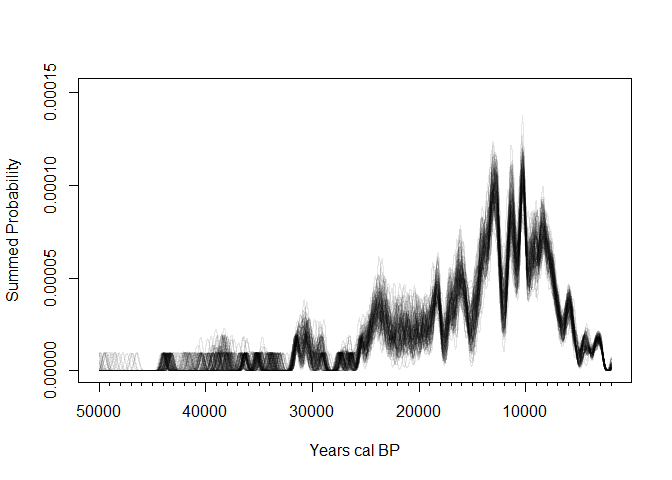
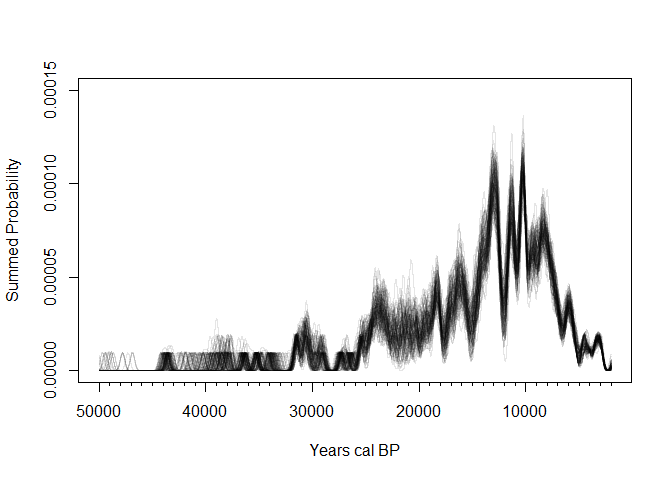
Seeing if the changes to the figures will be reflected on the github page

diff --git a/README.md b/README.md
@@ -340,7 +340,13 @@ ggplot(spd_unbinned$grid) +
   theme_minimal() 
 ```
 
-![](README_files/figure-commonmark/unnamed-chunk-2-1.png)
+<div id="fig-unbinned-climate">
+
+![](README_files/figure-commonmark/fig-unbinned-climate-1.png)
+
+Figure 2: Unbinned SPD plot with climate events overlayed
+
+</div>
 
 In <a href="#fig-unbinned" class="quarto-xref">Figure 1</a> there is a
 continuous occupation of Southeast Asia from 25000 BP to present
@@ -369,11 +375,11 @@ plot(spd_res)
 
 ![](README_files/figure-commonmark/fig-100-bin-1.png)
 
-Figure 2: SPD plot with a bin of 100 years
+Figure 3: SPD plot with a bin of 100 years
 
 </div>
 
-In <a href="#fig-100-bin" class="quarto-xref">Figure 2</a> the peaks are
+In <a href="#fig-100-bin" class="quarto-xref">Figure 3</a> the peaks are
 consistent but grow more intense the only exceptions being the hills
 just before 15 ka and just after 10 ka are a little depressed from the
 binning compared to the rest of the peaks.
@@ -400,7 +406,7 @@ plot(spd_res)
 
 ![](README_files/figure-commonmark/fig-200-bin-1.png)
 
-Figure 3: SPD plot with a bin of 200 years
+Figure 4: SPD plot with a bin of 200 years
 
 </div>
 
@@ -653,11 +659,11 @@ ggplot(spd_res$grid) +
 
 ![](README_files/figure-commonmark/fig-200-bin-climate-1.png)
 
-Figure 4: SPD plot with a bin of 200 years with climate events overlayed
+Figure 5: SPD plot with a bin of 200 years with climate events overlayed
 
 </div>
 
-In <a href="#fig-200-bin" class="quarto-xref">Figure 3</a> the changes
+In <a href="#fig-200-bin" class="quarto-xref">Figure 4</a> the changes
 are more noticeable as the peak around 13 ka and just before 10 ka is
 much higher than the original plot.
 
@@ -682,11 +688,11 @@ plot(spd_res)
 
 ![](README_files/figure-commonmark/fig-500-bin-1.png)
 
-Figure 5: SPD plot with a bin of 500 years
+Figure 6: SPD plot with a bin of 500 years
 
 </div>
 
-In <a href="#fig-500-bin" class="quarto-xref">Figure 5</a> the peaks
+In <a href="#fig-500-bin" class="quarto-xref">Figure 6</a> the peaks
 around 13 ka are even more intense but the hill around 14 ka depresses a
 little, the peak just before 10 ka also lowers considerably compared to
 the original plot.
@@ -712,11 +718,11 @@ plot(spd_res)
 
 ![](README_files/figure-commonmark/fig-5000-bin-1.png)
 
-Figure 6: SPD plot with a bin of 5000 years
+Figure 7: SPD plot with a bin of 5000 years
 
 </div>
 
-In <a href="#fig-5000-bin" class="quarto-xref">Figure 6</a> a lot of the
+In <a href="#fig-5000-bin" class="quarto-xref">Figure 7</a> a lot of the
 hills depress however a couple of them spike up into their own peaks
 especially around 25-23 ka, 17 ka, and 12 ka.
 
@@ -753,11 +759,11 @@ plot(spd_thin)
 
 ![](README_files/figure-commonmark/fig-thinned-1.png)
 
-Figure 7: SPD plot with thinning
+Figure 8: SPD plot with thinning
 
 </div>
 
-In <a href="#fig-thinned" class="quarto-xref">Figure 7</a> the thinning
+In <a href="#fig-thinned" class="quarto-xref">Figure 8</a> the thinning
 caused more mild variation like the 100 and 200 year bins but the peaks
 around 13 and 12 ka intensify and the one just after 10 ka depresses.
 
@@ -784,11 +790,11 @@ plot(Sea.ckde, type = 'multiline')
 
 ![](README_files/figure-commonmark/fig-CKDE-1.png)
 
-Figure 8: CKDE plot
+Figure 9: CKDE plot
 
 </div>
 
-In <a href="#fig-CKDE" class="quarto-xref">Figure 8</a> the bands show a
+In <a href="#fig-CKDE" class="quarto-xref">Figure 9</a> the bands show a
 consistent occupation but support the notion of increased intensity
 starting from 14 ka.
 
@@ -814,6 +820,9 @@ library(sf)
 
 ``` r
 library(ggrepel)
+
+#| label: fig-map
+#| fig-cap: Southeast Asia map
 
 # Load site data from Excel file
 dates_data <- read_excel("Demographic analysis sites.xlsx")
@@ -847,4 +856,4 @@ sea_map <- ggplot(world) +
 sea_map
 ```
 
-![](README_files/figure-commonmark/unnamed-chunk-3-1.png)
+![](README_files/figure-commonmark/unnamed-chunk-2-1.png)
